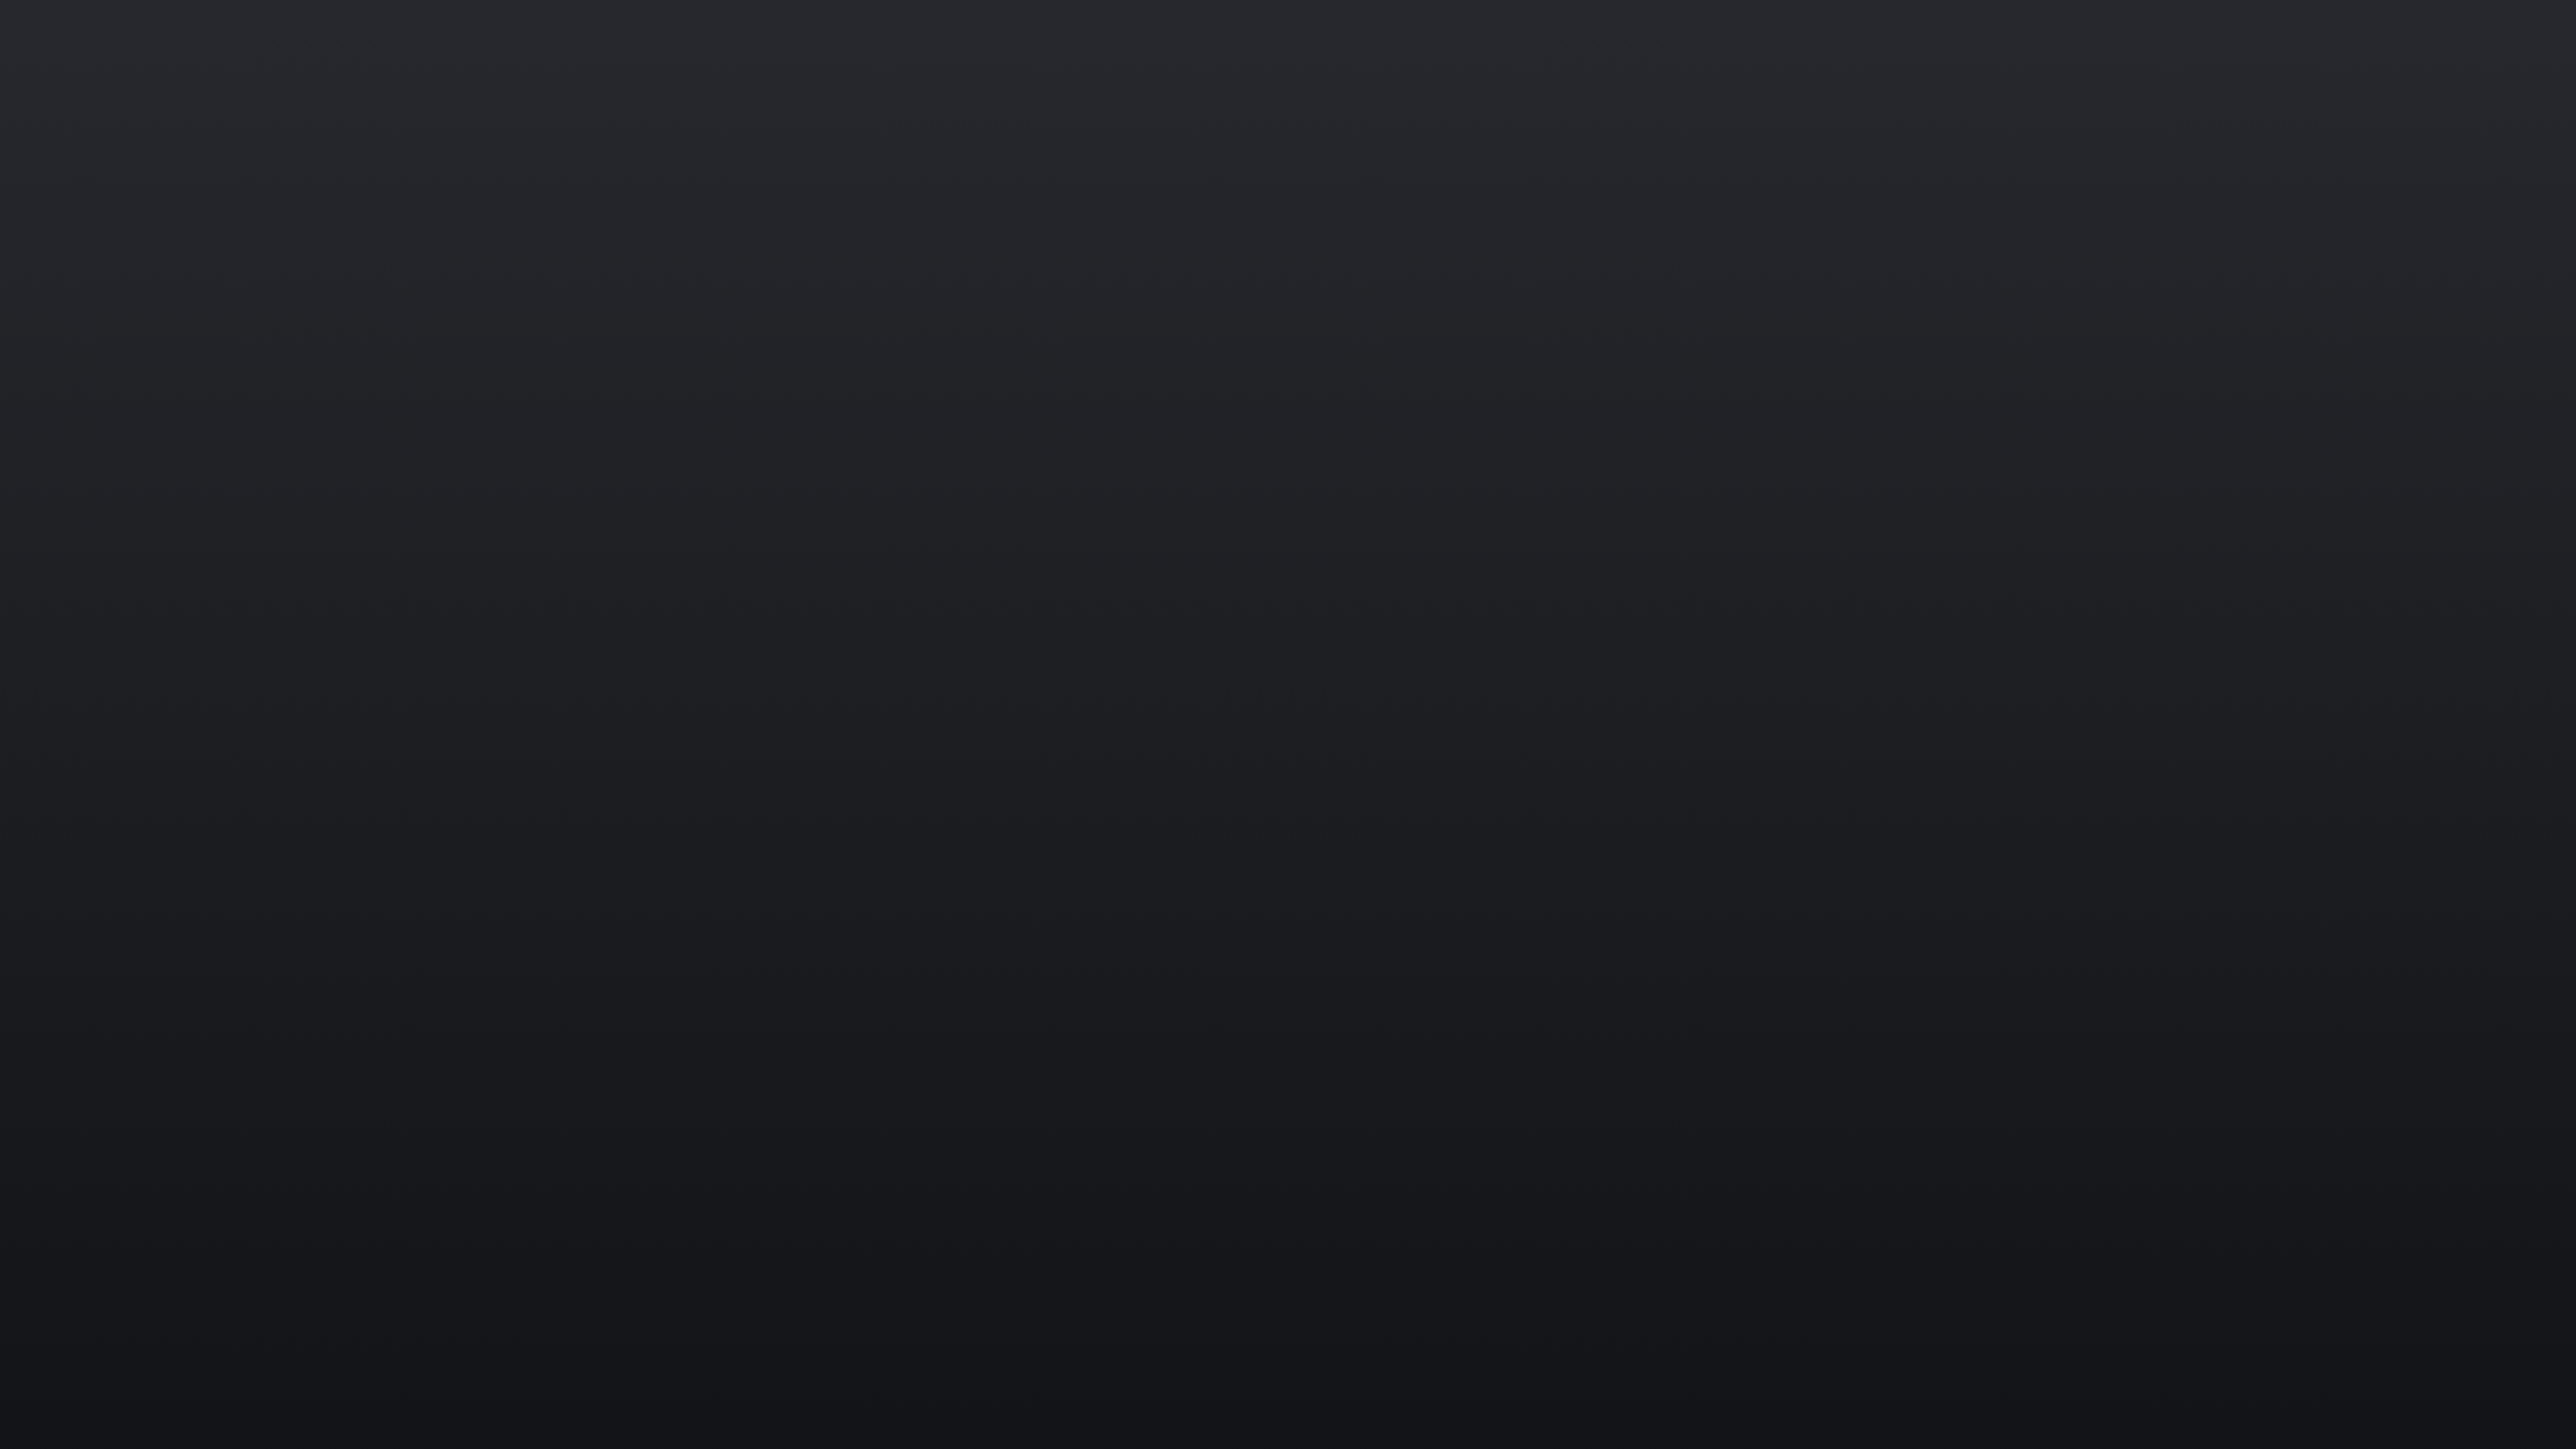
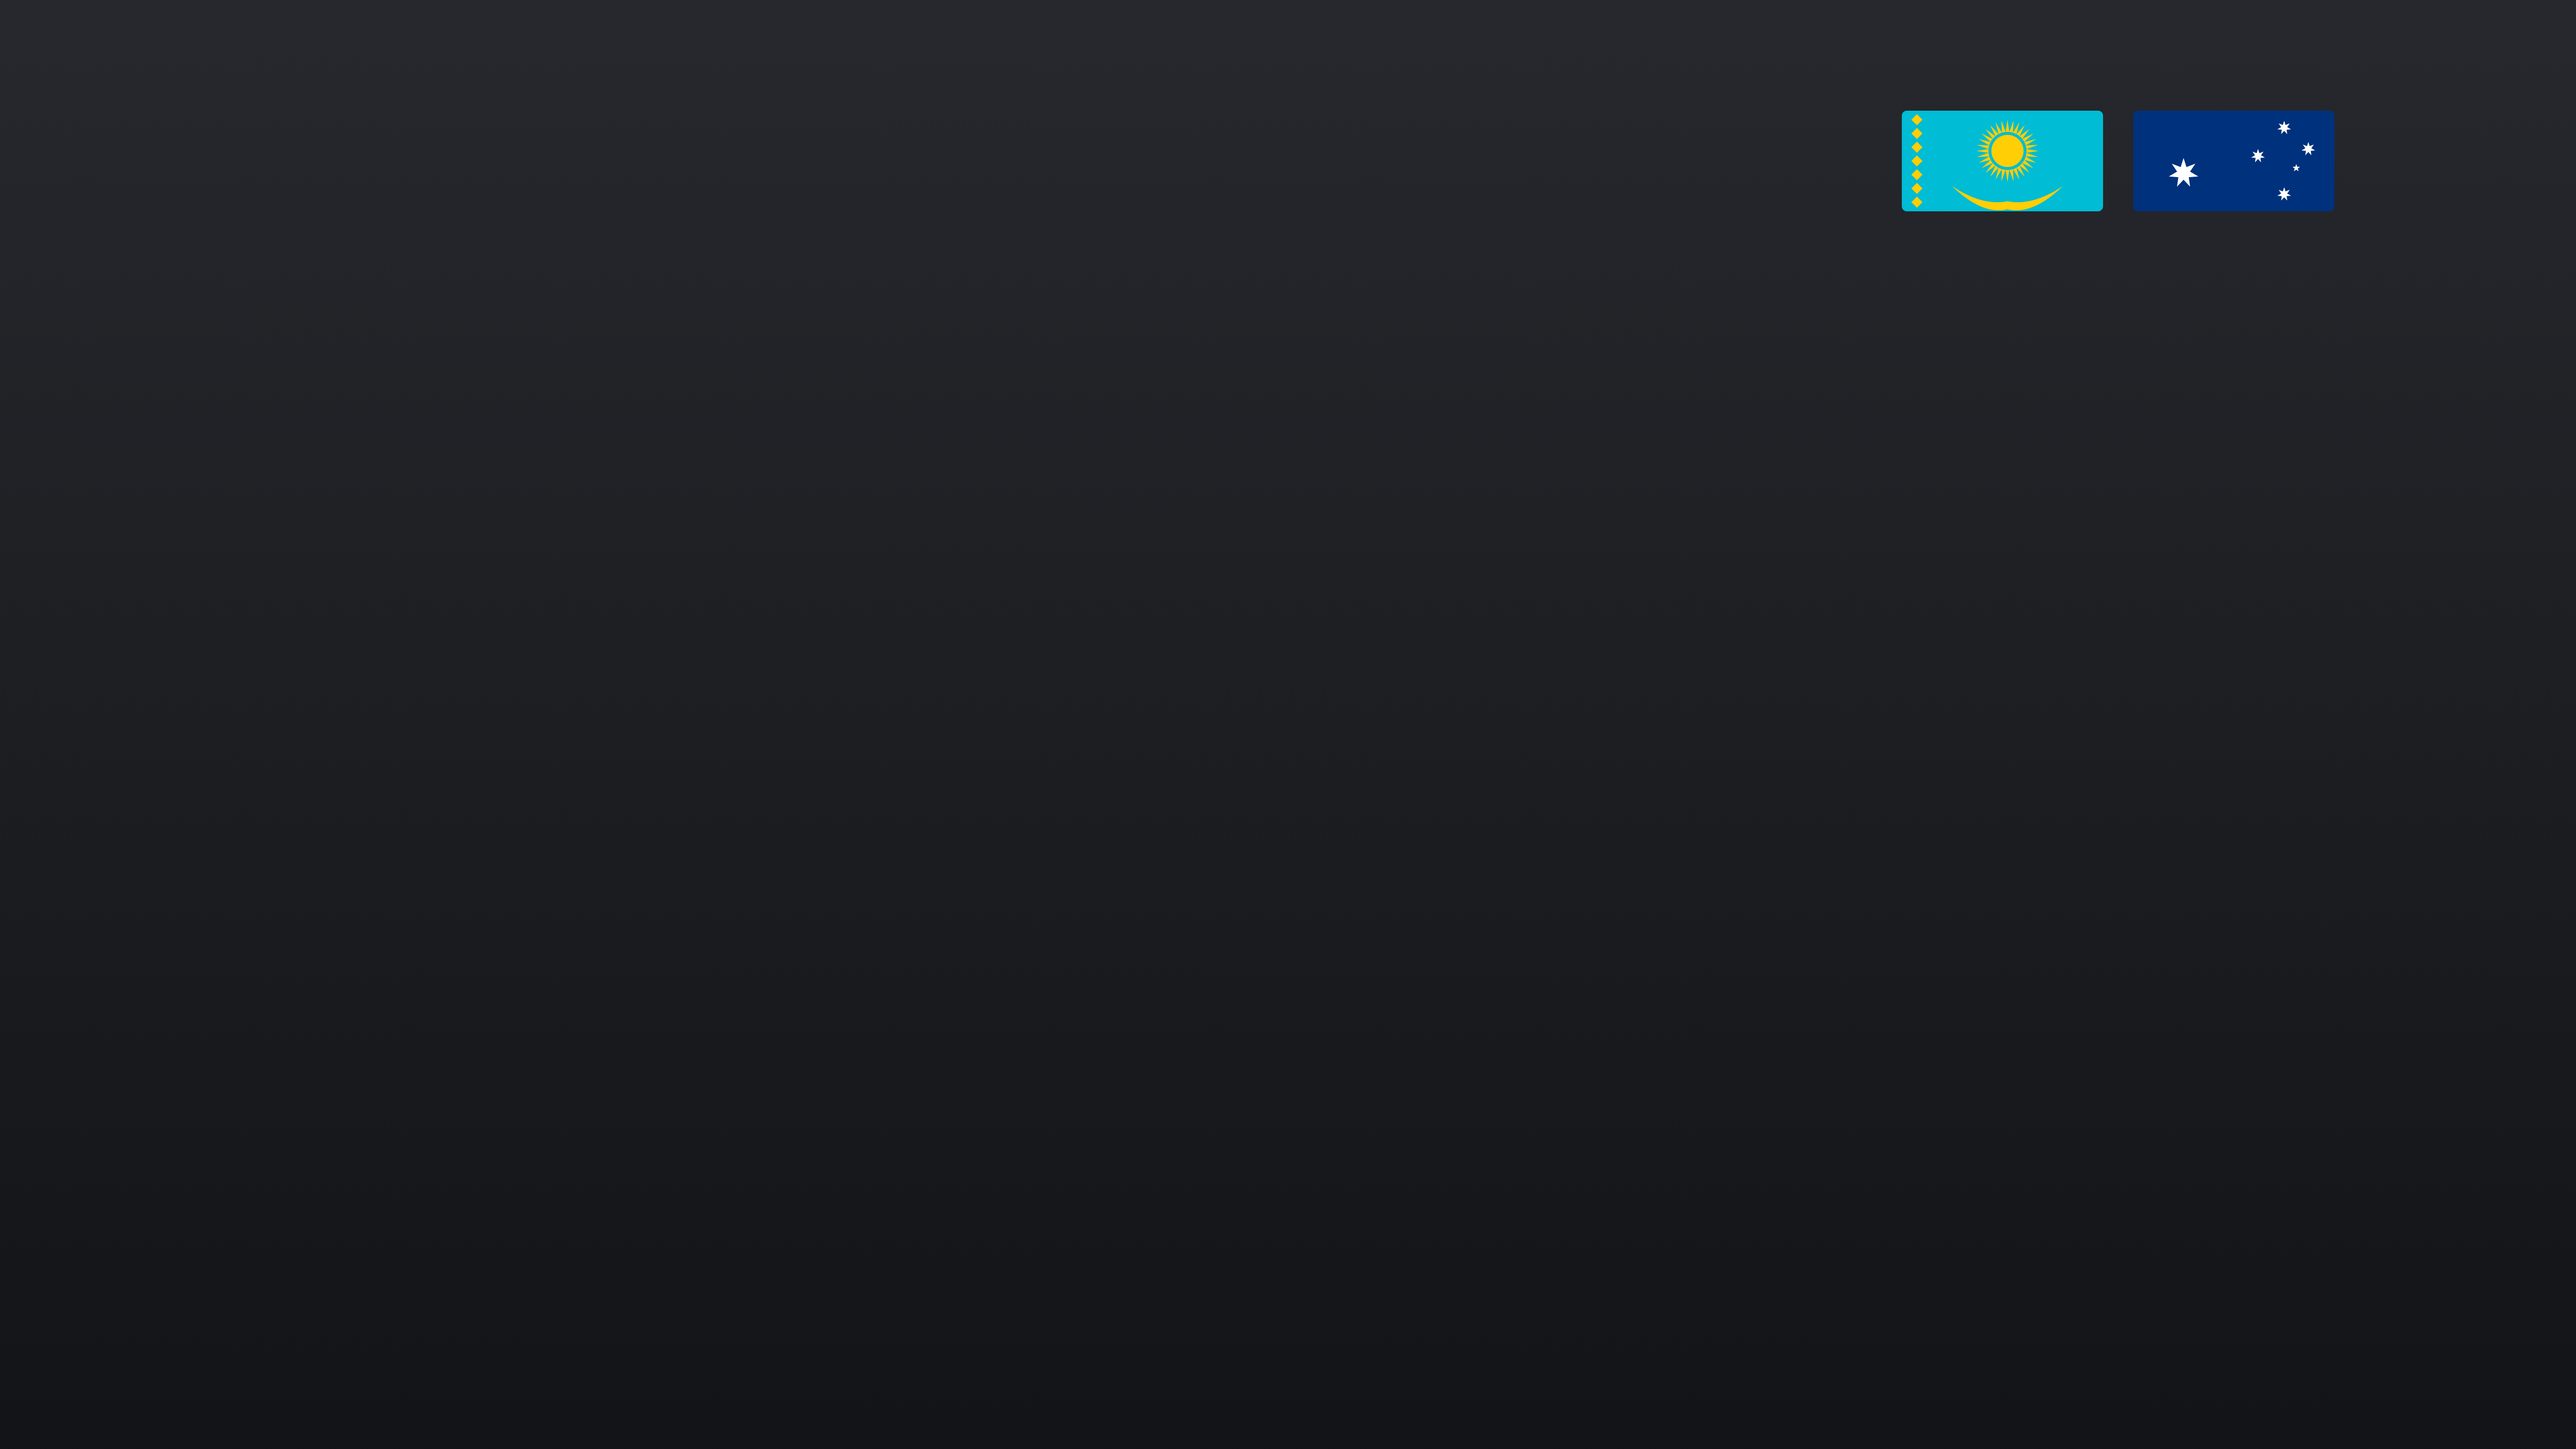
(wallpapers): Kazakh and Australian flags top right

Changed region(s): [[0.7188, 0.0625, 0.9062, 0.1562]]

diff --git a/home/.config/sketchybar/wallpapers/wallpapers.swift b/home/.config/sketchybar/wallpapers/wallpapers.swift
@@ -12,11 +12,76 @@ func render(_ name: String, _ draw: (CGContext) -> Void) {
                       space: CGColorSpaceCreateDeviceRGB(), bitmapInfo: CGImageAlphaInfo.premultipliedLast.rawValue)!
   ctx.translateBy(x: 0, y: CGFloat(H)); ctx.scaleBy(x: 1, y: -1)   // top-left origin
   draw(ctx)
+  flags(ctx)
   let png = NSBitmapImageRep(cgImage: ctx.makeImage()!).representation(using: .png, properties: [:])!
   try! png.write(to: URL(fileURLWithPath: "\(name).png"))
 }
 func dot(_ ctx: CGContext, _ x: Int, _ y: Int, _ r: Int, _ c: CGColor) {
   ctx.setFillColor(c); ctx.fillEllipse(in: CGRect(x: x - r, y: y - r, width: 2 * r, height: 2 * r))
+}
+
+func star(_ ctx: CGContext, _ cx: Double, _ cy: Double, _ r: Double, _ points: Int, _ c: CGColor) {
+  ctx.setFillColor(c); ctx.beginPath()
+  for i in 0..<(points * 2) {
+    let rad = i % 2 == 0 ? r : r * (points == 7 ? 0.44 : 0.4)
+    let a = Double(i) * .pi / Double(points) - .pi / 2
+    let p = CGPoint(x: cx + rad * cos(a), y: cy + rad * sin(a))
+    i == 0 ? ctx.move(to: p) : ctx.addLine(to: p)
+  }
+  ctx.closePath(); ctx.fillPath()
+}
+
+// Kazakhstan and Australia (no Union Jack, as on the bar's key), top right.
+// Kept inside the strip the built-in display crops off, and below the bar.
+func flags(_ ctx: CGContext) {
+  let h = 200.0, w = 400.0, gap = 60.0, top = 220.0
+  let au = CGRect(x: Double(W) - 480 - w, y: top, width: w, height: h)
+  let kz = au.offsetBy(dx: -(w + gap), dy: 0)
+  let gold = rgb(0xfec50c), white = rgb(0xffffff)
+
+  func field(_ r: CGRect, _ c: CGColor) {
+    ctx.saveGState(); ctx.addPath(CGPath(roundedRect: r, cornerWidth: 10, cornerHeight: 10, transform: nil))
+    ctx.clip(); ctx.setFillColor(c); ctx.fill(r)
+  }
+
+  // Kazakhstan: sky blue, a 32-ray sun over a steppe eagle, ornament at the hoist.
+  field(kz, rgb(0x00afca))
+  let sx = kz.midX + 10, sy = kz.minY + h * 0.4
+  ctx.setFillColor(gold)
+  for i in 0..<32 {
+    let a = Double(i) * .pi / 16, b = a + .pi / 32
+    ctx.beginPath()
+    ctx.move(to: CGPoint(x: sx + 38 * cos(a - .pi / 32), y: sy + 38 * sin(a - .pi / 32)))
+    ctx.addLine(to: CGPoint(x: sx + 62 * cos(a), y: sy + 62 * sin(a)))
+    ctx.addLine(to: CGPoint(x: sx + 38 * cos(b), y: sy + 38 * sin(b)))
+    ctx.fillPath()
+  }
+  ctx.fillEllipse(in: CGRect(x: sx - 32, y: sy - 32, width: 64, height: 64))
+  ctx.beginPath()   // eagle: two swept wings meeting under the sun
+  ctx.move(to: CGPoint(x: sx - 110, y: sy + 70))
+  ctx.addQuadCurve(to: CGPoint(x: sx, y: sy + 100), control: CGPoint(x: sx - 50, y: sy + 110))
+  ctx.addQuadCurve(to: CGPoint(x: sx + 110, y: sy + 70), control: CGPoint(x: sx + 50, y: sy + 110))
+  ctx.addQuadCurve(to: CGPoint(x: sx, y: sy + 116), control: CGPoint(x: sx + 50, y: sy + 128))
+  ctx.addQuadCurve(to: CGPoint(x: sx - 110, y: sy + 70), control: CGPoint(x: sx - 50, y: sy + 128))
+  ctx.fillPath()
+  for i in 0..<7 {   // ornament column
+    let cy = kz.minY + 18 + Double(i) * 27.3, cx = kz.minX + 30
+    ctx.beginPath()
+    ctx.move(to: CGPoint(x: cx, y: cy - 11)); ctx.addLine(to: CGPoint(x: cx + 11, y: cy))
+    ctx.addLine(to: CGPoint(x: cx, y: cy + 11)); ctx.addLine(to: CGPoint(x: cx - 11, y: cy))
+    ctx.fillPath()
+  }
+  ctx.restoreGState()
+
+  // Australia: Commonwealth Star at the hoist, Southern Cross on the fly.
+  field(au, rgb(0x012169))
+  star(ctx, au.minX + w * 0.25, au.minY + h * 0.62, h * 0.15, 7, white)
+  star(ctx, au.minX + w * 0.75, au.minY + h * 0.17, h * 0.07, 7, white)
+  star(ctx, au.minX + w * 0.62, au.minY + h * 0.45, h * 0.07, 7, white)
+  star(ctx, au.minX + w * 0.87, au.minY + h * 0.38, h * 0.07, 7, white)
+  star(ctx, au.minX + w * 0.75, au.minY + h * 0.83, h * 0.07, 7, white)
+  star(ctx, au.minX + w * 0.81, au.minY + h * 0.57, h * 0.04, 5, white)
+  ctx.restoreGState()
 }
 
 // Kick75: LEGO studs on the Obsidian Black case, four bricks in the accents.

diff --git a/README.md b/README.md
@@ -317,7 +317,8 @@ macOS system blue on the pressed workspace. Each palette is one `case` branch in
 The wallpaper follows too, set by `sketchybarrc` on every load from
 `wallpapers/{kick,node,builtin}.png`: LEGO studs and four accent bricks, the
 Node's dot texture with an orange 5x2 LED block, or a plain gradient when only
-the built-in keyboard is there. `swift wallpapers.swift` in that directory
+the built-in keyboard is there. Each has the Kazakh and Australian flags top
+right, below the bar. `swift wallpapers.swift` in that directory
 redraws them. The first switch from an AeroSpace-launched bar may ask to let
 SketchyBar control System Events.
 
